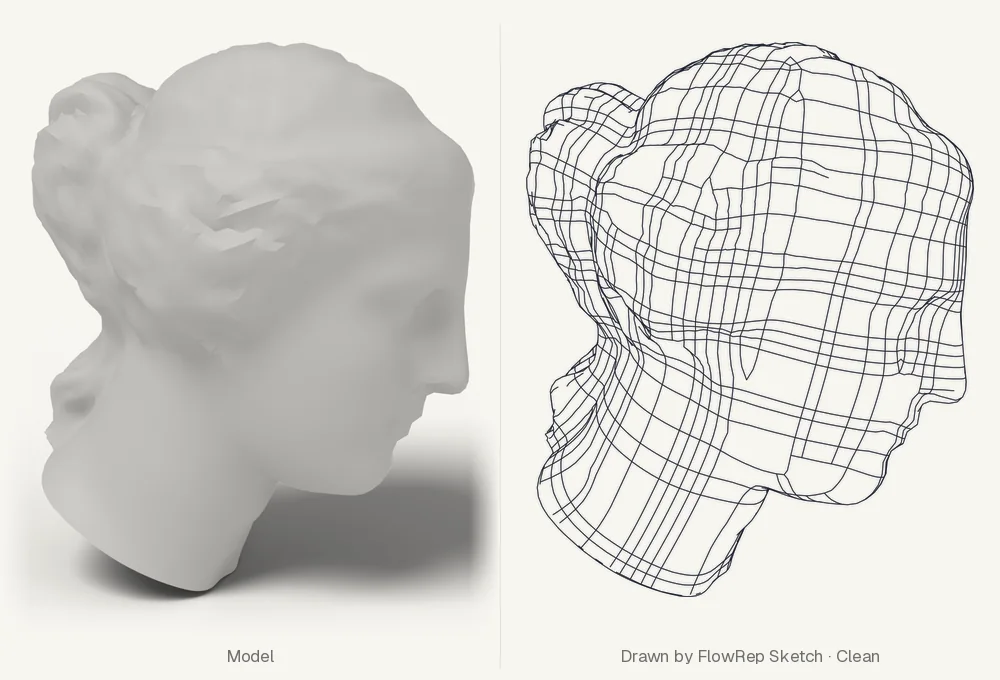
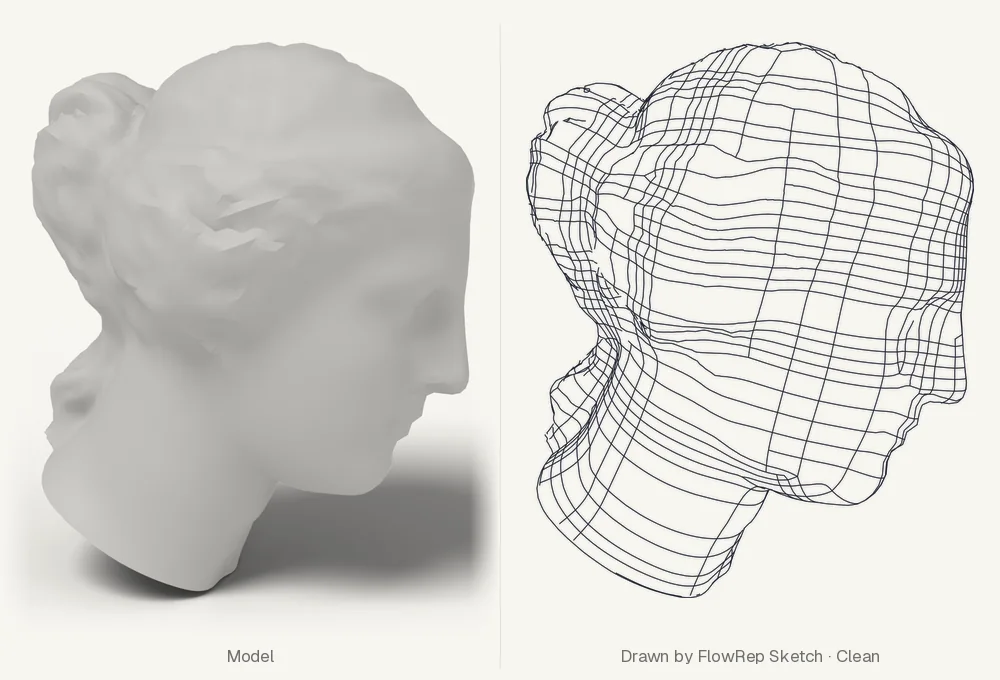
FlowRep Sketch 0.2.0: contours stay on coarse models; README picture drawn again
- The smooth silhouette drew the points it tested for visibility, lifted
  half an edge along the normal: on coarse models (Venus, 15k triangles)
  the outline sat visibly outside the figure. Visibility is still tested
  off the surface; the contour is drawn where it lies.
- Along real creases (sharp clusters >= 8 % of the model's size) the
  contour is the exact front/back mesh edge, and the interpolation stays
  away: averaged normals there cut across flat faces (a box drew 570 mm of
  outline instead of 309) or lost a cut base. Sculpt-noise creases are
  ignored, so no flecks return on sculpted models.
- docs/images/readme/flowrep-sketch.webp drawn again with 0.2.0
  (readme_gallery.py --only flowrep-sketch, encoded as --publish does).
- Tests: coarse sphere outline, box outline; RESEARCH.md and CHANGELOG.

Changed region(s): [[0.527, 0.0618, 0.992, 0.8956]]

diff --git a/src/flowrep3d/render.py b/src/flowrep3d/render.py
@@ -108,13 +108,31 @@ def _smooth_polyline(P,iterations,spacing):
 
 def _contours(V,F,cam,normal_passes=3):
     """Interpolated contours (Hertzmann and Zorin 2000): the zero set of n·(eye − p) over smoothed vertex normals,
-    one segment per triangle it crosses, chained through shared edges into long smooth curves, plus open
-    boundaries. Returns [(points, normals)] so visibility can test them just off the surface."""
+    one segment per triangle it crosses, chained through shared edges into long smooth curves. Along real creases
+    (a cut base, a box's edges) averaged normals are meaningless, so there the contour is the exact one: the mesh
+    edge between a front- and a back-facing face. Open boundaries are contours too.
+    Returns [(points, normals)] so visibility can test them just off the surface."""
     E,FE,EF,counts=edge_topology(F)
+    eye,_,_,w=cam.basis()
+    FN,_=face_normals(V,F)
+    front=FN@w>=0 if cam.ortho else (FN*(eye-V[F].mean(1))).sum(1)>=0
+    # real creases: sharp edges in clusters long enough not to be sculpt noise
+    inner=counts==2
+    sharp=np.zeros(len(E),bool)
+    sharp[inner]=(FN[EF[inner,0]]*FN[EF[inner,1]]).sum(1)<np.cos(np.radians(SHARP_CONTOUR))
+    crease=np.zeros(len(E),bool)
+    if sharp.any():
+        from scipy.sparse import coo_matrix
+        from scipy.sparse.csgraph import connected_components
+        ids=np.flatnonzero(sharp); S=E[ids]
+        _,label=connected_components(coo_matrix((np.ones(len(ids)),(S[:,0],S[:,1])),shape=(len(V),len(V))),directed=False)
+        group=label[S[:,0]]
+        length=np.bincount(group,weights=np.linalg.norm(V[S[:,0]]-V[S[:,1]],axis=1))
+        crease[ids[length[group]>=SHARP_CONTOUR_SHARE*float(np.ptp(V,axis=0).max())]]=True
+    near_crease=np.zeros(len(V),bool); near_crease[E[crease].ravel()]=True
     N=vertex_normals(V,F)
     for _ in range(int(normal_passes)):
         N=N+neighbour_average(N,E,len(V)); N/=np.maximum(np.linalg.norm(N,axis=1,keepdims=True),1e-30)
-    eye,_,_,w=cam.basis()
     if cam.ortho:
         g=N@w
     else:
@@ -126,17 +144,49 @@ def _contours(V,F,cam,normal_passes=3):
     point=V[a]+t[:,None]*(V[b]-V[a])
     normal=N[a]+t[:,None]*(N[b]-N[a])
     hit=crossed[FE]
-    two=hit.sum(1)==2
+    two=(hit.sum(1)==2)&~near_crease[F].any(1)
     segments=np.sort(FE[two][hit[two]].reshape(-1,2),axis=1) if two.any() else np.zeros((0,2),np.int64)
     out=[]
     if len(segments):
         chains,_=graph_chains(segments,np.arange(len(segments)))
         out+=[(point[c],normal[c]) for c in chains]
-    boundary=np.flatnonzero(counts==1)
-    if len(boundary):
-        for c in graph_chains(E,boundary)[0]:
-            out.append((V[c],N[c]))
+    flip=np.zeros(len(E),bool); flip[crease]=front[EF[crease,0]]!=front[EF[crease,1]]
+    for ids in (np.flatnonzero(flip),np.flatnonzero(counts==1)):
+        if len(ids):
+            for c in graph_chains(E,ids)[0]:
+                out.append((V[c],N[c]))
     return out
+
+
+SHARP_CONTOUR = 60.0        # degrees: on edges sharper than this the contour follows the mesh edge
+SHARP_CONTOUR_SHARE = 0.08  # of the model's size: smaller clusters of sharp edges are sculpt noise, not creases
+
+
+def _sample_with_normals(P,N,cam,frame,step):
+    """_sample for a contour, carrying its normals along (the same points, the same interpolation)."""
+    C=cam.to_camera(P); screen=frame.to_mm(cam.project(C))
+    lengths=np.linalg.norm(np.diff(screen,axis=0),axis=1); out=[P[0]]; normals=[N[0]]
+    for i,length in enumerate(lengths):
+        ratio=1.0 if cam.ortho else max(C[i,2],C[i+1,2])/max(min(C[i,2],C[i+1,2]),NEAR)
+        n=max(1,min(65536,int(np.ceil(length/step*ratio))))
+        t=np.arange(1,n+1)/n
+        out.extend(P[i]+t[:,None]*(P[i+1]-P[i])); normals.extend(N[i]+t[:,None]*(N[i+1]-N[i]))
+    normals=np.array(normals)
+    return np.array(out),normals/np.maximum(np.linalg.norm(normals,axis=1,keepdims=True),1e-30)
+
+
+def _runs(P,visible,closed):
+    """A polyline cut into [(visible, points)] where its samples' visibility changes; a closed loop that starts and
+    ends in the same state is joined across its start."""
+    cuts=np.flatnonzero(visible[1:]!=visible[:-1])+1
+    bounds=[0,*cuts.tolist(),len(P)]
+    runs=[]
+    for a,b in zip(bounds[:-1],bounds[1:]):
+        piece=P[max(0,a-1):b]                    # each run starts where the last one ended
+        if len(piece)>=2: runs.append((bool(visible[a]),piece))
+    if closed and len(runs)>1 and runs[0][0]==runs[-1][0]:
+        state,last=runs.pop(); runs[0]=(state,np.vstack([last,runs[0][1][1:]]))
+    return runs
 
 
 def _close_gaps(runs,to_mm,gap):
@@ -295,23 +345,36 @@ def render_network(mesh,network: CurveNetwork,camera=None,paper=None,options=Non
     for kind,P in _split_junctions(display_network):
         P=_smooth_polyline(P,iterations//2 if kind=="trim" else iterations,spacing)
         raw.append(("features" if kind=="trim" else "flowlines",transform.apply(P)))
+    contours=[]; lift=0.0
     if options.silhouette:
         if options.silhouette_style=="smooth":
             ER=edge_topology(F)[0]
+            # A ray to a contour point grazes the surface, and sculpt noise next to it can hide it. Visibility is
+            # tested half an edge off the surface along the normal; the contour is drawn where it lies (drawing the
+            # lifted points moved the outline outward by as much, visibly so on coarse models).
             lift=0.5*float(np.linalg.norm(V[ER[:,0]]-V[ER[:,1]],axis=1).mean())
-            # lift contour points a little off the surface along the normal: a ray to a contour grazes it
-            raw.extend(("silhouette",P+lift*N) for P,N in _contours(V,F,cam,int(round(2+6*options.smoothing))))
+            contours=_contours(V,F,cam,int(round(2+6*options.smoothing)))
         else:
             raw.extend(("silhouette",P) for P in _silhouettes(V,F,cam))
     def paper_length(P):
         return float(np.linalg.norm(np.diff(frame.to_mm(cam.project(cam.to_camera(P))),axis=0),axis=1).sum())
-    curves=[]; kinds=[]
+    curves=[]; kinds=[]; lifted={}
     for kind,P in raw:
         checkpoint(cancel)
         for piece in _clip_3d(P,cam,frame):
-            if kind=="silhouette" and options.silhouette_style=="smooth" and paper_length(piece)<options.min_contour:
-                continue                     # a contour loop around a bump of sculpt noise
             curves.append(_sample(piece,cam,frame,options.sample_step)); kinds.append(kind)
+    if contours:
+        from scipy.spatial import cKDTree
+        for P,N in contours:
+            checkpoint(cancel)
+            pieces=_clip_3d(P,cam,frame)
+            tree=cKDTree(P) if len(pieces)!=1 or len(pieces[0])!=len(P) else None
+            for piece in pieces:
+                if paper_length(piece)<options.min_contour:
+                    continue                 # a contour loop around a bump of sculpt noise
+                normals=N if tree is None else N[tree.query(piece)[1]]
+                S,SN=_sample_with_normals(piece,normals,cam,frame,options.sample_step)
+                lifted[len(curves)]=S+lift*SN; curves.append(S); kinds.append("silhouette")
     samples=sum(len(p) for p in curves)
     progress_to(progress,0.30,f"checking visibility of {samples} curve samples",cancel)
     # Interpolating between attached vertices can still cut slightly beneath a
@@ -327,8 +390,19 @@ def render_network(mesh,network: CurveNetwork,camera=None,paper=None,options=Non
             count=len(curves[i]); curves[i]=closest[cursor:cursor+count]; cursor+=count
         checkpoint(cancel)
     caster=raycast.Caster(V,F)
-    runs=raycast.split_visible(caster,cam,curves,[np.linalg.norm(p[0]-p[-1])<1e-8 for p in curves],
-                              eps=0.015,iters=12,hidden=True)
+    runs=[None]*len(curves)
+    ids=[i for i in range(len(curves)) if i not in lifted]
+    if ids:
+        found=raycast.split_visible(caster,cam,[curves[i] for i in ids],[np.linalg.norm(curves[i][0]-curves[i][-1])<1e-8 for i in ids],
+                                    eps=0.015,iters=12,hidden=True)
+        for i,r in zip(ids,found): runs[i]=r
+    if lifted:
+        order=sorted(lifted)
+        flags=raycast.visible(caster,cam,np.concatenate([lifted[i] for i in order]),0.015)
+        cursor=0
+        for i in order:
+            n=len(curves[i]); runs[i]=_runs(curves[i],flags[cursor:cursor+n],np.linalg.norm(curves[i][0]-curves[i][-1])<1e-8)
+            cursor+=n
     to_mm=lambda P: frame.to_mm(cam.project(cam.to_camera(P)))
     layers={"features":[],"silhouette":[],"flowlines":[],"hidden":[]}
     for kind,parts in zip(kinds,runs):

diff --git a/tests/flowrep_tests/test_quality.py b/tests/flowrep_tests/test_quality.py
@@ -124,6 +124,30 @@ class RenderQualityTests(unittest.TestCase):
         self.assertLess(float(np.abs(P@w).max()),0.03)                       # on the plane facing the camera
         self.assertLess(float(np.abs(np.linalg.norm(P,axis=1)-1).max()),0.01)  # and on the sphere
 
+    def test_smooth_contour_stays_on_a_coarse_model_and_is_drawn_whole(self):
+        # a coarse model: the contour must not move outward (it did by half an edge), nor break into dashes
+        mesh=icosphere(2)
+        net=from_arrays_network()
+        cam=Camera(theta=80,psi=-150,radius=6)
+        options=RenderOptions(paper="A5",silhouette=True)
+        smooth=render_network(mesh,net,cam,options=options)
+        edges=render_network(mesh,net,cam,options=replace(options,silhouette_style="mesh",join=False,gap=0))
+        S=np.concatenate(smooth.layers["silhouette"]); M=np.concatenate(edges.layers["silhouette"])
+        centre=M.mean(0); outer=float(np.linalg.norm(M-centre,axis=1).max())
+        self.assertLessEqual(float(np.linalg.norm(S-centre,axis=1).max()),outer+0.05)
+        length=sum(float(np.linalg.norm(np.diff(p,axis=0),axis=1).sum()) for p in smooth.layers["silhouette"])
+        self.assertEqual(len(smooth.layers["silhouette"]),1)
+        self.assertGreater(length,0.9*2*np.pi*float(np.linalg.norm(M-centre,axis=1).mean()))
+
+    def test_sharp_edged_models_keep_their_exact_outline(self):
+        box=trimesh.creation.box(); mesh=from_arrays(box.vertices,box.faces)
+        cam=Camera(theta=60,psi=-140,radius=6)
+        options=RenderOptions(paper="A5",silhouette=True,up="+z")
+        smooth=render_network(mesh,from_arrays_network(),cam,options=options)
+        edges=render_network(mesh,from_arrays_network(),cam,options=replace(options,silhouette_style="mesh"))
+        ink=lambda d: sum(float(np.linalg.norm(np.diff(p,axis=0),axis=1).sum()) for p in d.layers["silhouette"])
+        self.assertAlmostEqual(ink(smooth),ink(edges),delta=0.05*ink(edges))
+
     def test_noisy_model_silhouette_is_a_few_long_strokes(self):
         mesh=icosphere(5,noise=0.004)
         net=from_arrays_network()

diff --git a/docs/flowrep/RESEARCH.md b/docs/flowrep/RESEARCH.md
@@ -167,11 +167,16 @@ untouched. Junctions stay fixed, and every sample is laid back on the reference 
 Silhouettes are interpolated contours by default (Hertzmann and Zorin 2000). They are the zero set of
 n·(eye − p) over the reference's vertex normals, smoothed by 2 + 6 × *smoothing* neighbour averages,
 with one segment per triangle the zero set crosses. The segments are chained through shared edges
-into long curves, and open boundaries are added. Contour pieces shorter than 2 mm on paper (loops
-around sculpt noise) are left out. Contour points are lifted half an average reference edge along the
-normal before the visibility test, because a ray to a contour grazes the surface. The older front/back
-triangle boundaries remain as *Silhouette style: Mesh edges*. On a 524k-triangle sculpted head they
-gave 652 pieces in one view; the contours give 30.
+into long curves. Averaged normals mean nothing along a real crease (a cut base, a box's edges): there
+the interpolation would cut across flat faces or lose the outline. Real creases are clusters of edges
+sharper than 60° that are at least 8% of the model's size; smaller clusters are sculpt noise. Triangles
+touching them are left out of the interpolation, and the contour there is the exact one: the edge
+between a front- and a back-facing face. Open boundaries are added. Contour pieces shorter than 2 mm on
+paper (loops around noise) are left out. A ray to a contour point grazes the surface, so visibility is
+tested half an average edge off the surface along the normal. The contour is drawn where it lies: an
+earlier build drew the lifted points, which moved the outline outward visibly on coarse models
+(15k-triangle Venus). The older front/back triangle boundaries remain as *Silhouette style: Mesh
+edges*. On a 524k-triangle sculpted head they gave 652 pieces in one view; the contours give 32.
 
 Near-plane and paper-frustum clipping happens before sampling. Hidden stretches shorter than 0.4 mm
 between visible runs of one curve are drawn (grazing rays flicker). In each layer, strokes whose ends

diff --git a/CHANGELOG.md b/CHANGELOG.md
@@ -16,12 +16,14 @@
   sculpted head at 20°, 64 of 292 flowlines go; it used to be off, and only looked at directly adjacent lines.
 - **Smooth curves and silhouettes.** Curves are smoothed between junctions (*Curve smoothing*, 0.5), so
   they no longer kink at every quad corner. The silhouette is a smooth contour that follows the surface
-  between its vertices; it used to be a chain of mesh edges that broke into hundreds of dashes on sculpted
-  models. *Silhouette style › Mesh edges* (advanced) keeps the old look.
+  between its vertices, and follows the mesh exactly along real creases such as a cut base. It used to be a
+  chain of mesh edges that broke into hundreds of dashes on sculpted models. *Silhouette style › Mesh edges*
+  (advanced) keeps the old look.
 - **Long strokes.** Short hidden gaps from grazing rays are drawn, and strokes that continue each other across
   a junction are joined. One view of the sculpted head (6000 quads, 20°) went from 1611 strokes (691 under
-  2 mm) to 233 (52), with 228 flowlines and 33 feature curves instead of 190 and 228. At 30°, the paper's
-  setting for organic models (now suggested in the Descriptiveness help), it draws 194 strokes.
+  2 mm) to 235 (52), with 228 flowlines and 33 feature curves instead of 190 and 228. At 30°, the paper's
+  setting for organic models (now suggested in the Descriptiveness help), it draws about 190 strokes. The README's
+  FlowRep picture is drawn again.
 
 ## 2.4.4 (unreleased)
 
